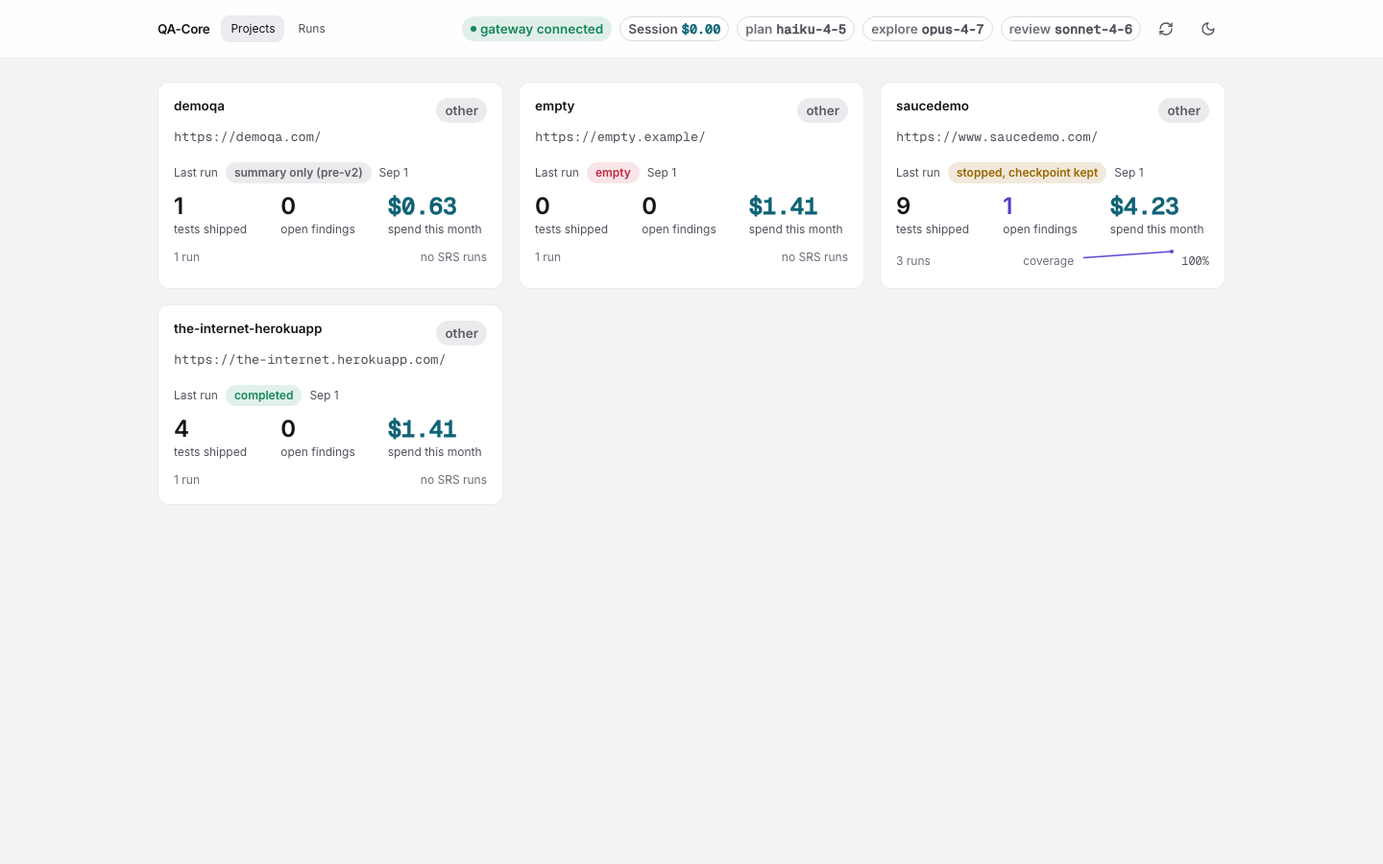
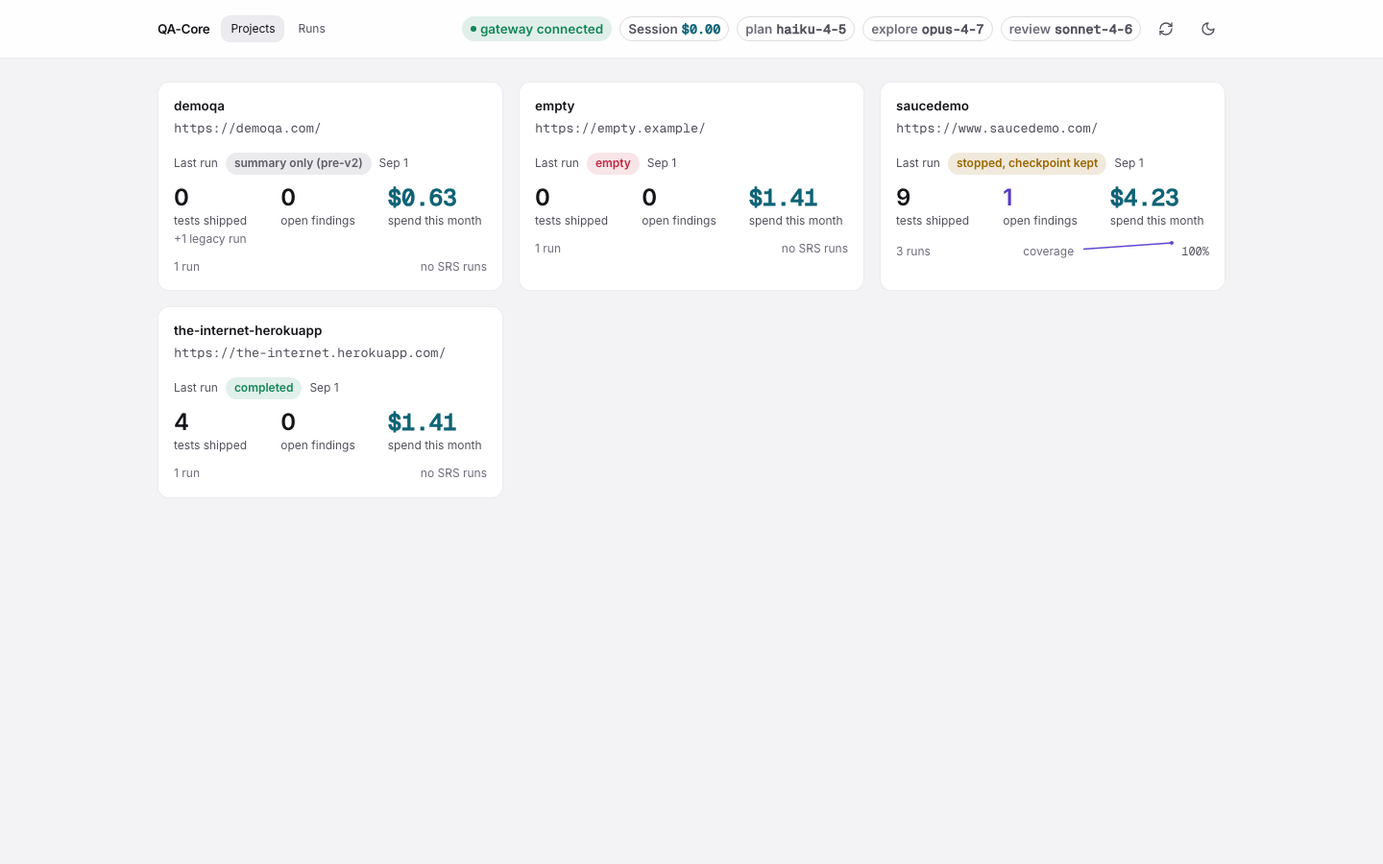
fix(index): legacy rows count explored not shipped; hide unset environment badge
A pre-v2 gateway record's scenario count is what the run EXPLORED:
memory.saveRun wrote it before replay and stability dropped anything, so it
was never a shipped count. Legacy runs rows now keep that value in
`generated` and leave `shipped` NULL (schema migration 3: runs.shipped
nullable, derived tables recreated). The Runs table shows "N explored" for
a legacy row and the run page labels it scenarios explored. Project cards
compute "tests shipped" from reported runs only and show a muted
"+N legacy runs" line; /api/projects and /api/projects/:id expose `shipped`
and `legacy_runs` separately.

The environment badge on a project card is hidden when the environment is
unset or "other" (every auto-created project today), instead of showing a
meaningless label.

Smokes: smoke-index 33, smoke-api 39 (+2), smoke-dashboard 59 (+4),
smoke-acceptance 6 (the --real report now separates shipped from explored).
Suite: 63 scripts green.

diff --git a/src/server/api.ts b/src/server/api.ts
@@ -125,8 +125,14 @@ function monthStart(now = new Date()): string {
 
 export interface ProjectCard {
   id: string; name: string; base_url: string | null; environment: string; srs_path: string | null;
-  runs: number; shipped: number; open_findings: number; spend_month: number; spend_total: number;
-  last_run: { id: string; status: string; started_at: string | null; shipped: number; cost_total: number } | null;
+  /** All runs, reported and legacy. */
+  runs: number;
+  /** Tests shipped, summed over runs that have a report. Legacy rows never contribute. */
+  shipped: number;
+  /** Pre-v2 records (summary only): counted apart, never added to shipped. */
+  legacy_runs: number;
+  open_findings: number; spend_month: number; spend_total: number;
+  last_run: { id: string; status: string; started_at: string | null; shipped: number | null; generated: number; cost_total: number } | null;
   /** Rule coverage percent per run (oldest first), for the sparkline; empty without SRS runs. */
   coverage_series: Array<{ run_id: string; started_at: string | null; percent: number }>;
 }
@@ -138,18 +144,21 @@ export function listProjects(db: Database.Database): ProjectCard[] {
 
 function projectCard(db: Database.Database, p: Record<string, unknown>): ProjectCard {
   const id = String(p.id);
-  const agg = db.prepare(`SELECT COUNT(*) AS runs, COALESCE(SUM(shipped), 0) AS shipped, COALESCE(SUM(cost_total), 0) AS spend_total,
+  const agg = db.prepare(`SELECT COUNT(*) AS runs,
+                          COALESCE(SUM(CASE WHEN report_path IS NOT NULL THEN shipped ELSE 0 END), 0) AS shipped,
+                          SUM(CASE WHEN status = 'legacy' THEN 1 ELSE 0 END) AS legacy_runs,
+                          COALESCE(SUM(cost_total), 0) AS spend_total,
                           COALESCE(SUM(CASE WHEN started_at >= ? THEN cost_total ELSE 0 END), 0) AS spend_month
-                          FROM runs WHERE project_id = ?`).get(monthStart(), id) as { runs: number; shipped: number; spend_total: number; spend_month: number };
+                          FROM runs WHERE project_id = ?`).get(monthStart(), id) as { runs: number; shipped: number; legacy_runs: number; spend_total: number; spend_month: number };
   const open = db.prepare("SELECT COUNT(*) AS n FROM findings WHERE project_id = ? AND status IN ('new', 'confirmed')").get(id) as { n: number };
-  const last = db.prepare('SELECT id, status, started_at, shipped, cost_total FROM runs WHERE project_id = ? ORDER BY started_at DESC, id DESC LIMIT 1').get(id) as ProjectCard['last_run'] | undefined;
+  const last = db.prepare('SELECT id, status, started_at, shipped, generated, cost_total FROM runs WHERE project_id = ? ORDER BY started_at DESC, id DESC LIMIT 1').get(id) as ProjectCard['last_run'] | undefined;
   const coverage = db.prepare(`SELECT r.id AS run_id, r.started_at,
                                  SUM(CASE WHEN c.status = 'covered' THEN 1 ELSE 0 END) AS covered, COUNT(*) AS total
                                FROM rule_coverage c JOIN runs r ON r.id = c.run_id WHERE r.project_id = ?
                                GROUP BY r.id ORDER BY r.started_at ASC, r.id ASC`).all(id) as Array<{ run_id: string; started_at: string | null; covered: number; total: number }>;
   return {
     id, name: String(p.name), base_url: (p.base_url as string | null) ?? null, environment: String(p.environment), srs_path: (p.srs_path as string | null) ?? null,
-    runs: agg.runs, shipped: agg.shipped, open_findings: open.n, spend_month: agg.spend_month, spend_total: agg.spend_total,
+    runs: agg.runs, shipped: agg.shipped, legacy_runs: agg.legacy_runs ?? 0, open_findings: open.n, spend_month: agg.spend_month, spend_total: agg.spend_total,
     last_run: last ?? null,
     coverage_series: coverage.map((c) => ({ run_id: c.run_id, started_at: c.started_at, percent: c.total ? Math.round((c.covered / c.total) * 100) : 0 })),
   };
@@ -164,7 +173,7 @@ export function projectDetail(db: Database.Database, id: string): Record<string,
   const openFindings = db.prepare("SELECT * FROM findings WHERE project_id = ? AND status IN ('new', 'confirmed') ORDER BY last_seen_run_id DESC").all(id);
   return {
     project: p,
-    summary: { runs: card.runs, shipped: card.shipped, open_findings: card.open_findings, spend_total: card.spend_total, spend_month: card.spend_month, last_run: card.last_run },
+    summary: { runs: card.runs, shipped: card.shipped, legacy_runs: card.legacy_runs, open_findings: card.open_findings, spend_total: card.spend_total, spend_month: card.spend_month, last_run: card.last_run },
     trend: trend.map((t) => ({ ...t, coverage_percent: coverageByRun.get(String(t.run_id)) ?? null })),
     open_findings: openFindings,
   };

diff --git a/scripts/smoke-dashboard.ts b/scripts/smoke-dashboard.ts
@@ -118,6 +118,8 @@ for (const theme of ['dark', 'light'] as const) {
     shipped: el.querySelector('[data-testid="shipped"]')?.textContent,
     findings: el.querySelector('[data-testid="open-findings"]')?.textContent,
     spend: el.querySelector('[data-testid="spend-month"]')?.textContent,
+    legacySub: el.querySelector('[data-testid="shipped-sub"]')?.textContent ?? null,
+    envBadge: el.querySelector('[data-testid="env-badge"]')?.textContent ?? null,
     status: el.querySelector('[data-status]')?.getAttribute('data-status'),
     text: el.textContent ?? '',
   })));
@@ -149,13 +151,16 @@ for (const theme of ['dark', 'light'] as const) {
   check(`${theme}: runs table lists every run newest first`, rows.length === apiRuns.length && rows[0]?.id === apiRuns[0]?.id, JSON.stringify(rows.map((r) => r.id)));
   for (const r of apiRuns) {
     const row = rows.find((x) => x.id === r.id)!;
-    const expectSp = r.status === 'legacy' ? String(r.shipped) : `${r.shipped}/${r.planned}`;
+    const expectSp = r.status === 'legacy' ? `${r.generated} explored` : `${r.shipped}/${r.planned}`;
     check(`${theme}: row ${String(r.id).slice(0, 16)} shows shipped/planned, cost, status from the index`, !!row && row.sp === expectSp && row.cost === `$${Number(r.cost_total).toFixed(4)}` && row.status === r.status, JSON.stringify(row));
   }
   check(`${theme}: source and duration columns render (mcp source, 4m 14s duration)`, rows.some((r) => /mcp/.test(r.text)) && rows.filter((r) => r.status !== 'legacy').every((r) => /4m 14s/.test(r.text)), JSON.stringify(rows.map((r) => r.text.slice(0, 80))));
   const legacyRow = rows.find((r) => r.status === 'legacy')!;
-  check(`${theme}: a pre-v2 record renders the "summary only (pre-v2)" badge, shipped without a planned count, and its duration`, !!legacyRow && /summary only \(pre-v2\)/.test(legacyRow.text) && legacyRow.sp === '1' && /4m 15s/.test(legacyRow.text), JSON.stringify(legacyRow));
-  check(`${theme}: the demoqa project card shows the legacy run as its last run`, cards.find((c) => c.id === 'demoqa-com')?.status === 'legacy' && cards.find((c) => c.id === 'demoqa-com')?.shipped === '1');
+  check(`${theme}: a pre-v2 record renders the "summary only (pre-v2)" badge, "N explored" instead of shipped/planned, and its duration`, !!legacyRow && /summary only \(pre-v2\)/.test(legacyRow.text) && legacyRow.sp === '1 explored' && /4m 15s/.test(legacyRow.text), JSON.stringify(legacyRow));
+  const demoqa = cards.find((c) => c.id === 'demoqa-com');
+  check(`${theme}: the demoqa card counts 0 tests shipped (legacy scenarios were explored, not shipped) with a muted "+1 legacy run" line`, demoqa?.status === 'legacy' && demoqa?.shipped === '0' && demoqa?.legacySub === '+1 legacy run', JSON.stringify(demoqa));
+  check(`${theme}: cards with real runs carry no legacy line`, cards.filter((c) => c.id !== 'demoqa-com').every((c) => c.legacySub === null), JSON.stringify(cards.map((c) => [c.id, c.legacySub])));
+  check(`${theme}: the environment badge is hidden when the environment is unset or "other"`, cards.every((c) => !c.envBadge), JSON.stringify(cards.map((c) => c.envBadge)));
   await page.selectOption('[data-testid="filter-project"]', 'saucedemo-com');
   await page.waitForFunction(() => document.querySelectorAll('[data-testid="run-row"]').length === 3);
   check(`${theme}: project filter narrows to that project's runs and updates the URL`, (await page.$$('[data-testid="run-row"]')).length === 3 && /project_id=saucedemo-com/.test(page.url()));
@@ -172,7 +177,7 @@ for (const theme of ['dark', 'light'] as const) {
   await page.waitForURL(`**/runs/${legacyRow.id}`);
   await page.waitForFunction(() => /Summary only/.test(document.querySelector('main')?.textContent ?? ''), null, { timeout: 10_000 }).catch(() => null);
   const legacyDetail = (await page.textContent('main')) ?? '';
-  check(`${theme}: the legacy run page explains "summary only" and offers no report or zip link`, /Summary only \(pre-v2\)/.test(legacyDetail) && !/Download framework zip/.test(legacyDetail) && !/api\/runs/.test(legacyDetail), legacyDetail.slice(0, 160));
+  check(`${theme}: the legacy run page explains "summary only", labels the count as explored, and offers no report or zip link`, /Summary only \(pre-v2\)/.test(legacyDetail) && /scenarios explored/.test(legacyDetail) && !/Download framework zip/.test(legacyDetail) && !/api\/runs/.test(legacyDetail), legacyDetail.slice(0, 160));
   await page.goBack();
   await page.waitForSelector('[data-testid="run-row"]');
   await page.click(`[data-run-id="${s1}"] a`);

diff --git a/scripts/smoke-index.ts b/scripts/smoke-index.ts
@@ -114,7 +114,7 @@ fs.writeFileSync(path.join(root, '.qa-core', 'sites', 'unknown.json'), JSON.stri
 /* ─── first index ─── */
 
 const db = openDatabase(dbPath);
-check('A. schema migrated to the current version (2: legacy run records)', schemaVersion(db) === 2);
+check('A. schema migrated to the current version (3: legacy rows count explored, not shipped)', schemaVersion(db) === 3);
 const r1 = indexOutput(db, root);
 check('B. 6 reported runs + 3 pre-v2 records indexed (1 record covered by a report, skipped)', r1.runs === 9 && r1.legacy === 1 && r1.legacyRecords === 3 && r1.legacyCovered === 1, JSON.stringify(r1));
 check('C. 5 projects: saucedemo, shop, legacy, demo.playwright.dev (records only), Unassigned', r1.projects === 5, String(r1.projects));
@@ -168,13 +168,13 @@ check('N. rule coverage rows carry status, text and feature from the requirement
 
 const julyRec = { at: legacyAt, url: 'https://www.saucedemo.com/', scenarios: 5, cost: 0.7647535, model: 'claude-opus-4-7', durationSec: 101 };
 const july = legacyRows.find((r) => r.id === legacyRunId('www.saucedemo.com', julyRec))!;
-check('T1. the July record is a legacy row with the numbers it carried and nothing invented', !!july && july.status === 'legacy' && july.shipped === 5 && july.generated === 5 && july.planned === 0 && Math.abs(Number(july.cost_total) - 0.7647535) < 1e-9 && Number(july.cost_explorer) === Number(july.cost_total) && july.report_path === null && july.zip_path === null && july.flake_rate === null, JSON.stringify(july));
+check('T1. the July record is a legacy row: its scenario count is EXPLORED (generated), shipped is NULL, nothing invented', !!july && july.status === 'legacy' && july.shipped === null && july.generated === 5 && july.planned === 0 && Math.abs(Number(july.cost_total) - 0.7647535) < 1e-9 && Number(july.cost_explorer) === Number(july.cost_total) && july.report_path === null && july.zip_path === null && july.flake_rate === null, JSON.stringify(july));
 check('T2. legacy timing: ended_at is the record time, started_at is durationSec earlier', july.ended_at === legacyAt && july.started_at === '2026-07-03T09:13:19.000Z', JSON.stringify([july.started_at, july.ended_at]));
 check('T3. legacy flags keep the model and duration; source is cli', JSON.parse(String(july.flags_json)).model === 'claude-opus-4-7' && JSON.parse(String(july.flags_json)).durationSec === 101 && july.source === 'cli');
 check('T4. a record covered by a real report (same host, finished within the window) is NOT imported and the report row is untouched', !legacyRows.some((r) => r.ended_at === '2026-09-12T10:00:40.000Z') && runs.find((r) => r.id === sauce2)?.shipped === 4 && runs.find((r) => r.id === sauce2)?.status === 'completed');
-check('T5. a host with records but no reports gets its own project', legacyRows.find((r) => r.project_id === 'demo-playwright-dev')?.shipped === 5);
+check('T5. a host with records but no reports gets its own project', legacyRows.find((r) => r.project_id === 'demo-playwright-dev')?.generated === 5 && legacyRows.find((r) => r.project_id === 'demo-playwright-dev')?.shipped === null);
 check('T6. the unknown host record lands in Unassigned with a null url', legacyRows.find((r) => r.project_id === UNASSIGNED_PROJECT_ID)?.url === null);
-check('T7. runRowFromLegacyRecord is a pure mapping with a deterministic id', runRowFromLegacyRecord('h', julyRec, 'p').id === runRowFromLegacyRecord('h', julyRec, 'p').id && runRowFromLegacyRecord('h', julyRec, 'p').id.startsWith('legacy-20260703T091500Z-'));
+check('T7. runRowFromLegacyRecord is a pure mapping with a deterministic id and a NULL shipped', runRowFromLegacyRecord('h', julyRec, 'p').id === runRowFromLegacyRecord('h', julyRec, 'p').id && runRowFromLegacyRecord('h', julyRec, 'p').id.startsWith('legacy-20260703T091500Z-') && runRowFromLegacyRecord('h', julyRec, 'p').shipped === null && runRowFromLegacyRecord('h', julyRec, 'p').generated === 5);
 // A legacy id can never overwrite a reported row: force the collision and re-import.
 // (The swap rewrites primary keys that derived rows reference; those rows are
 // rebuilt right after, so the constraint is paused for the swap only.)

diff --git a/scripts/smoke-api.ts b/scripts/smoke-api.ts
@@ -97,19 +97,23 @@ const projects = (await get('/api/projects', auth)).json().projects as Array<Rec
 const sauce = projects.find((p) => p.id === 'saucedemo-com')!;
 const shop = projects.find((p) => p.id === 'shop-example')!;
 check('E. /api/projects lists both host projects plus the records-only host', projects.length === 3 && !!sauce && !!shop && projects.some((p) => p.id === 'old-example'), JSON.stringify(projects.map((p) => p.id)));
-check('F. project card sums runs, lifetime shipped and spend from the runs rows', sauce.runs === 2 && sauce.shipped === 5 && Math.abs(Number(sauce.spend_total) - 2.3) < 1e-9, JSON.stringify(sauce));
+check('F. project card sums runs, lifetime shipped and spend from the runs rows', sauce.runs === 2 && sauce.shipped === 5 && sauce.legacy_runs === 0 && Math.abs(Number(sauce.spend_total) - 2.3) < 1e-9, JSON.stringify(sauce));
+const old = projects.find((p) => p.id === 'old-example')!;
+check('F2. a legacy-only project shows shipped 0 and legacy_runs 1: explored scenarios never count as shipped', old.shipped === 0 && old.legacy_runs === 1 && old.runs === 1 && (old.last_run as Record<string, unknown>).shipped === null && (old.last_run as Record<string, unknown>).generated === 3, JSON.stringify(old));
 check('G. spend this month counts only runs started this month', Math.abs(Number(sauce.spend_month) - 1.15) < 1e-9 && Math.abs(Number(shop.spend_month) - 1.15) < 1e-9, JSON.stringify([sauce.spend_month, shop.spend_month]));
 check('H. last run is the newest by start time with its status', (sauce.last_run as Record<string, unknown>).id === a2 && (sauce.last_run as Record<string, unknown>).status === 'stopped');
 check('I. open findings and coverage series are zero/empty without findings or SRS runs', sauce.open_findings === 0 && Array.isArray(sauce.coverage_series) && (sauce.coverage_series as unknown[]).length === 0);
 const detail = (await get('/api/projects/saucedemo-com', auth)).json();
 check('J. /api/projects/:id returns summary, trend (oldest first) and open findings', (detail.summary as Record<string, unknown>).runs === 2 && (detail.trend as Array<Record<string, unknown>>).length === 2 && (detail.trend as Array<Record<string, unknown>>)[0]?.run_id === a1 && Array.isArray(detail.open_findings));
+const oldDetail = (await get('/api/projects/old-example', auth)).json();
+check('J2. the summary exposes shipped and legacy_runs separately', (oldDetail.summary as Record<string, unknown>).shipped === 0 && (oldDetail.summary as Record<string, unknown>).legacy_runs === 1 && (detail.summary as Record<string, unknown>).legacy_runs === 0);
 check('K. unknown project is 404', (await get('/api/projects/nope', auth)).status === 404);
 
 /* ─── runs ─── */
 const runsAll = (await get('/api/runs', auth)).json().runs as Array<Record<string, unknown>>;
 check('L. /api/runs lists every run newest first with the project name joined', runsAll.length === 4 && runsAll[0]?.project_name !== undefined && String(runsAll[0]?.started_at) >= String(runsAll[2]?.started_at), JSON.stringify(runsAll.map((r) => r.id)));
 const legacyRow = runsAll.find((r) => r.status === 'legacy')!;
-check('L2. a pre-v2 record is listed as status legacy with null report and zip paths', !!legacyRow && legacyRow.report_path === null && legacyRow.zip_path === null && legacyRow.shipped === 3);
+check('L2. a pre-v2 record is listed as status legacy with null report and zip paths, explored in generated, shipped NULL', !!legacyRow && legacyRow.report_path === null && legacyRow.zip_path === null && legacyRow.shipped === null && legacyRow.generated === 3);
 check('L3. /report and /zip are 404 for a legacy row, naming the reason', (await get(`/api/runs/${legacyRow.id}/report`, auth)).status === 404 && /pre-v2/.test((await get(`/api/runs/${legacyRow.id}/report`, auth)).text) && (await get(`/api/runs/${legacyRow.id}/zip`, auth)).status === 404);
 check('L4. status=legacy filter', ((await get('/api/runs?status=legacy', auth)).json().runs as unknown[]).length === 1);
 const runsSauce = (await get('/api/runs?project_id=saucedemo-com', auth)).json().runs as Array<Record<string, unknown>>;

diff --git a/scripts/smoke-acceptance.ts b/scripts/smoke-acceptance.ts
@@ -97,16 +97,16 @@ check('rows after delete + reindex are identical to the first index', first === 
 // 4. Every row equals its report and sits under the right project.
 const rows = db.prepare('SELECT r.*, p.base_url FROM runs r JOIN projects p ON p.id = r.project_id ORDER BY r.started_at').all() as Array<Record<string, unknown>>;
 let mismatches = 0;
-const perProject = new Map<string, { runs: number; shipped: number; cost: number; name: string }>();
+const perProject = new Map<string, { runs: number; shipped: number; explored: number; legacy: number; cost: number; name: string }>();
 let legacyCount = 0;
 for (const row of rows) {
   if (row.status === 'legacy') {
     // A pre-v2 record: no report to compare against; it must carry no invented numbers and no file paths.
     legacyCount++;
-    if (row.report_path !== null || row.zip_path !== null || Number(row.planned) !== 0 || Number(row.shipped) !== Number(row.generated)) { mismatches++; console.log(`  legacy row ${String(row.id)} carries invented data`); }
+    if (row.report_path !== null || row.zip_path !== null || Number(row.planned) !== 0 || row.shipped !== null) { mismatches++; console.log(`  legacy row ${String(row.id)} carries invented data (shipped must be NULL, the record only knew explored)`); }
     const pid = String(row.project_id);
-    const agg = perProject.get(pid) ?? { runs: 0, shipped: 0, cost: 0, name: '' };
-    agg.runs++; agg.shipped += Number(row.shipped); agg.cost += Number(row.cost_total);
+    const agg = perProject.get(pid) ?? { runs: 0, shipped: 0, explored: 0, legacy: 0, cost: 0, name: '' };
+    agg.runs++; agg.legacy++; agg.explored += Number(row.generated); agg.cost += Number(row.cost_total);
     perProject.set(pid, agg);
     continue;
   }
@@ -124,7 +124,7 @@ for (const row of rows) {
   const rightProject = host ? hostOf(String(row.base_url)) === host : row.project_id === UNASSIGNED_PROJECT_ID;
   if (!rightProject) { mismatches++; console.log(`  wrong project for ${String(row.id)}: ${String(row.project_id)} (host ${host})`); }
   const pid = String(row.project_id);
-  const agg = perProject.get(pid) ?? { runs: 0, shipped: 0, cost: 0, name: '' };
+  const agg = perProject.get(pid) ?? { runs: 0, shipped: 0, explored: 0, legacy: 0, cost: 0, name: '' };
   agg.runs++; agg.shipped += Number(row.shipped); agg.cost += Number(row.cost_total);
   perProject.set(pid, agg);
 }
@@ -136,7 +136,7 @@ if (!real) {
 }
 const names = db.prepare('SELECT id, name FROM projects').all() as Array<{ id: string; name: string }>;
 console.log(`\nIndex of ${root === process.cwd() ? 'the real output/' : 'the fixture'}: ${r2.runs} run(s) (${r2.runs - r2.legacyRecords} with reports, ${r2.legacyRecords} pre-v2 records imported, ${r2.legacyCovered} records covered by a report), ${r2.projects} project(s), ${r2.legacy} legacy folder(s) in place, ${r2.findings} finding(s)`);
-for (const [pid, agg] of [...perProject.entries()].sort()) console.log(`  ${names.find((n) => n.id === pid)?.name ?? pid} (${pid}): ${agg.runs} run(s), ${agg.shipped} shipped, $${agg.cost.toFixed(4)}`);
+for (const [pid, agg] of [...perProject.entries()].sort()) console.log(`  ${names.find((n) => n.id === pid)?.name ?? pid} (${pid}): ${agg.runs} run(s), ${agg.shipped} shipped${agg.legacy ? ` (+${agg.legacy} legacy run(s), ${agg.explored} explored)` : ''}, $${agg.cost.toFixed(4)}`);
 const unassigned = perProject.get(UNASSIGNED_PROJECT_ID);
 console.log(`  unassigned: ${unassigned ? unassigned.runs : 0}`);
 db.close();

diff --git a/src/server/db/indexer.ts b/src/server/db/indexer.ts
@@ -42,7 +42,8 @@ export interface RunRow {
   stable: number;
   flaky: number;
   broken: number;
-  shipped: number;
+  /** Scenarios in the emitted framework. NULL for a legacy record, which only knew how many were explored. */
+  shipped: number | null;
   cost_total: number;
   cost_planner: number;
   cost_explorer: number;
@@ -254,9 +255,12 @@ export function indexRunDir(db: Database.Database, root: string, entry: RunDirEn
  * .qa-core/sites/<host>.json holds `recentRuns` [{ at, url, scenarios, cost,
  * model, durationSec }] (the last 5 per host). Runs from before the per-run
  * layout survive only there, so they are imported as `runs` rows with status
- * 'legacy', report_path null, and the numbers the record carries: shipped =
- * generated = scenarios, cost_total = cost, started_at = at - durationSec,
- * ended_at = at. Nothing else is invented (planned and the funnel stay 0).
+ * 'legacy', report_path null, and the numbers the record carries. The
+ * record's `scenarios` is how many the run EXPLORED (memory.saveRun wrote it
+ * before replay and stability dropped anything), so it is stored as
+ * `generated` and `shipped` stays NULL: a legacy row never claims a shipped
+ * count. cost_total = cost, started_at = at - durationSec, ended_at = at.
+ * Nothing else is invented (planned and the funnel stay 0).
  *
  * A record is skipped when a real report covers the same run: same host and
  * the report's finish time within LEGACY_MATCH_MS of the record's `at` (the
@@ -293,7 +297,7 @@ export function runRowFromLegacyRecord(host: string, rec: LegacyRecord, projectI
   const at = Date.parse(rec.at);
   const ended = Number.isNaN(at) ? null : new Date(at).toISOString();
   const started = Number.isNaN(at) ? null : new Date(at - Math.max(0, Number(rec.durationSec) || 0) * 1000).toISOString();
-  const shipped = Number(rec.scenarios) || 0;
+  const explored = Number(rec.scenarios) || 0;
   const cost = Number(rec.cost) || 0;
   return {
     id: legacyRunId(host, rec),
@@ -304,8 +308,8 @@ export function runRowFromLegacyRecord(host: string, rec: LegacyRecord, projectI
     source: 'cli',
     url: rec.url && rec.url !== '--' ? rec.url : null,
     flags_json: JSON.stringify({ model: rec.model, durationSec: rec.durationSec, legacyHost: host }),
-    planned: 0, generated: shipped, dropped: 0, incomplete: 0, findings: 0, skipped: 0,
-    stable: 0, flaky: 0, broken: 0, shipped,
+    planned: 0, generated: explored, dropped: 0, incomplete: 0, findings: 0, skipped: 0,
+    stable: 0, flaky: 0, broken: 0, shipped: null,
     cost_total: cost, cost_planner: 0, cost_explorer: cost, cost_critic: 0, cost_repair: 0,
     flake_rate: null,
     report_path: null, zip_path: null, checkpoint_path: null, stopped_reason: null,

diff --git a/dashboard/src/pages/Projects.tsx b/dashboard/src/pages/Projects.tsx
@@ -39,7 +39,7 @@ export function ProjectsPage({ refreshKey }: { refreshKey: number }) {
             <CardHeader>
               <div className="flex items-start justify-between gap-2">
                 <CardTitle className="truncate" title={p.name}>{p.name}</CardTitle>
-                <Badge variant={ENV_VARIANT[p.environment] ?? 'neutral'}>{p.environment}</Badge>
+                {p.environment && p.environment !== 'other' ? <Badge variant={ENV_VARIANT[p.environment] ?? 'neutral'} data-testid="env-badge">{p.environment}</Badge> : null}
               </div>
               <CardDescription className="mono truncate" title={p.base_url ?? ''}>{p.base_url ?? 'no base URL'}</CardDescription>
             </CardHeader>
@@ -48,7 +48,7 @@ export function ProjectsPage({ refreshKey }: { refreshKey: number }) {
                 {p.last_run ? (<><span>Last run</span><StatusBadge status={p.last_run.status} /><span>{fmtDate(p.last_run.started_at)}</span></>) : <span>No runs yet</span>}
               </div>
               <dl className="grid grid-cols-3 gap-2">
-                <Stat label="tests shipped" value={String(p.shipped)} testid="shipped" />
+                <Stat label="tests shipped" value={String(p.shipped)} testid="shipped" sub={p.legacy_runs ? `+${p.legacy_runs} legacy run${p.legacy_runs === 1 ? '' : 's'}` : undefined} />
                 <Stat label="open findings" value={String(p.open_findings)} tone={p.open_findings ? 'finding' : undefined} testid="open-findings" />
                 <Stat label="spend this month" value={money(p.spend_month)} tone="cost" mono testid="spend-month" />
               </dl>
@@ -66,11 +66,12 @@ export function ProjectsPage({ refreshKey }: { refreshKey: number }) {
   );
 }
 
-function Stat({ label, value, tone, mono, testid }: { label: string; value: string; tone?: 'finding' | 'cost'; mono?: boolean; testid: string }) {
+function Stat({ label, value, tone, mono, testid, sub }: { label: string; value: string; tone?: 'finding' | 'cost'; mono?: boolean; testid: string; sub?: string }) {
   return (
     <div>
       <dd className={`text-l font-semibold leading-none ${tone === 'finding' ? 'text-finding' : tone === 'cost' ? 'text-cost' : ''} ${mono ? 'mono' : ''}`} data-testid={testid}>{value}</dd>
       <dt className="mt-1 text-s text-fg-2">{label}</dt>
+      {sub ? <div className="mt-0.5 text-s text-fg-3" data-testid={`${testid}-sub`} title="Pre-v2 records only recorded scenarios explored, never a shipped count">{sub}</div> : null}
     </div>
   );
 }

diff --git a/dashboard/src/pages/Runs.tsx b/dashboard/src/pages/Runs.tsx
@@ -72,7 +72,7 @@ export function RunsPage({ refreshKey }: { refreshKey: number }) {
               <TableRow key={r.id} className="cursor-pointer" data-testid="run-row" data-run-id={r.id}>
                 <TableCell><Link to={`/runs/${encodeURIComponent(r.id)}`} className="block"><StatusBadge status={r.status} /></Link></TableCell>
                 <TableCell><Link to={`/runs/${encodeURIComponent(r.id)}`} className="block"><div className="font-semibold">{r.project_name ?? r.project_id}</div><div className="mono truncate text-s text-fg-3" title={r.url ?? ''}>{r.url}</div></Link></TableCell>
-                <TableCell className="text-right"><Link to={`/runs/${encodeURIComponent(r.id)}`} className="block"><span className="mono" data-testid="shipped-planned">{r.status === 'legacy' ? `${r.shipped}` : `${r.shipped}/${r.planned}`}</span></Link></TableCell>
+                <TableCell className="text-right"><Link to={`/runs/${encodeURIComponent(r.id)}`} className="block"><span className="mono" data-testid="shipped-planned" title={r.status === 'legacy' ? 'Pre-v2 record: scenarios explored, no shipped count' : 'shipped / planned'}>{r.status === 'legacy' ? `${r.generated} explored` : `${r.shipped ?? 0}/${r.planned}`}</span></Link></TableCell>
                 <TableCell className="text-right"><Link to={`/runs/${encodeURIComponent(r.id)}`} className="block money text-cost" data-testid="cost">{money(r.cost_total, 4)}</Link></TableCell>
                 <TableCell className="text-right"><Link to={`/runs/${encodeURIComponent(r.id)}`} className={`block mono ${r.flake_rate ? 'text-rework' : 'text-fg-2'}`}>{pct(r.flake_rate)}</Link></TableCell>
                 <TableCell className="text-right"><Link to={`/runs/${encodeURIComponent(r.id)}`} className="block mono text-fg-2">{duration(r.started_at, r.ended_at)}</Link></TableCell>

diff --git a/dashboard/src/pages/RunPlaceholder.tsx b/dashboard/src/pages/RunPlaceholder.tsx
@@ -22,13 +22,13 @@ export function RunPlaceholderPage() {
         <span className="mono text-s text-fg-3">{run.id}</span>
       </div>
       <dl className="grid gap-3 sm:grid-cols-4">
-        {[[run.status === 'legacy' ? 'shipped' : 'shipped / planned', run.status === 'legacy' ? String(run.shipped) : `${run.shipped}/${run.planned}`], ['total cost', money(run.cost_total, 4)], ['started', fmtDate(run.started_at)], ['source', run.source]].map(([k, v]) => (
+        {[[run.status === 'legacy' ? 'scenarios explored' : 'shipped / planned', run.status === 'legacy' ? String(run.generated) : `${run.shipped ?? 0}/${run.planned}`], ['total cost', money(run.cost_total, 4)], ['started', fmtDate(run.started_at)], ['source', run.source]].map(([k, v]) => (
           <div key={k} className="rounded-lg border border-line bg-bg-1 p-3"><dd className="text-l font-semibold">{v}</dd><dt className="mt-1 text-s text-fg-2">{k}</dt></div>
         ))}
       </dl>
       {run.status === 'legacy' ? (
         <EmptyState title="Summary only (pre-v2)">
-          This run predates the per-run output layout. Only the numbers the gateway recorded at the time exist: scenarios shipped, cost, duration and model. There is no report or framework zip to open.
+          This run predates the per-run output layout. Only the numbers the gateway recorded at the time exist: scenarios explored (not shipped), cost, duration and model. There is no report or framework zip to open.
         </EmptyState>
       ) : (
         <EmptyState title="Run detail arrives in PR B">

diff --git a/dashboard/src/lib/api.ts b/dashboard/src/lib/api.ts
@@ -4,8 +4,8 @@
  */
 export interface ProjectCard {
   id: string; name: string; base_url: string | null; environment: string; srs_path: string | null;
-  runs: number; shipped: number; open_findings: number; spend_month: number; spend_total: number;
-  last_run: { id: string; status: string; started_at: string | null; shipped: number; cost_total: number } | null;
+  runs: number; shipped: number; legacy_runs: number; open_findings: number; spend_month: number; spend_total: number;
+  last_run: { id: string; status: string; started_at: string | null; shipped: number | null; generated: number; cost_total: number } | null;
   coverage_series: Array<{ run_id: string; started_at: string | null; percent: number }>;
 }
 
@@ -13,7 +13,7 @@ export interface RunRow {
   id: string; project_id: string; project_name?: string; started_at: string | null; ended_at: string | null;
   status: 'running' | 'completed' | 'stopped' | 'empty' | 'failed' | 'legacy'; source: string; url: string | null;
   planned: number; generated: number; dropped: number; incomplete: number; findings: number; skipped: number;
-  stable: number; flaky: number; broken: number; shipped: number;
+  stable: number; flaky: number; broken: number; shipped: number | null;
   cost_total: number; cost_planner: number; cost_explorer: number; cost_critic: number; cost_repair: number;
   flake_rate: number | null; report_path: string | null; zip_path: string | null; checkpoint_path: string | null; stopped_reason: string | null;
 }

diff --git a/src/server/db/migrate.ts b/src/server/db/migrate.ts
@@ -41,6 +41,16 @@ export const MIGRATIONS: Migration[] = [
       db.exec(schemaSql());
     },
   },
+  {
+    // runs.shipped became nullable: a legacy record's scenario count is what
+    // the run EXPLORED, so it lives in `generated` and shipped stays NULL.
+    version: 3,
+    name: 'legacy rows count explored, not shipped',
+    up: (db) => {
+      db.exec('DROP TABLE IF EXISTS verdicts; DROP TABLE IF EXISTS rule_coverage; DROP TABLE IF EXISTS findings; DROP TABLE IF EXISTS runs;');
+      db.exec(schemaSql());
+    },
+  },
 ];
 
 /** Open (creating the file and its directory if needed) and migrate. */

diff --git a/CLAUDE.md b/CLAUDE.md
@@ -122,7 +122,7 @@ Output is then transcribed by `pom.ts` (default — full POM framework) or `tran
 
 49. **Per-run output directories never overwrite.** Every run writes to `output/<project-slug>/<run-id>/` (`src/agent/output-layout.ts`: slug = URL host without `www`, run id = compact UTC time + 6-char hash) holding `run-report.json`, the framework zip, `checkpoint.json` when stopped, the SRS artefacts, and `run-meta.json` (the surface's source and flags, never engine data). `<project>/latest` points at the newest COMPLETED run (`finalizeRunDir`: symlink, `latest.json` fallback). `--out <dir>` is the whole run directory and gets no pointer. The CLI, gateway and MCP all resolve the directory through `outDirForRequest`; the legacy layout is moved once by `npm run migrate-output` (idempotent, `--dry-run`), and `listRunDirs` reads both layouts without following the symlink. Do not reintroduce a shared `<brand>-automation-framework/` directory. Locked by `smoke-output-layout`.
 
-50. **Files are truth; the index is rebuildable.** `data/qa-core.sqlite` (gitignored; `src/server/db/`: `schema.sql` = plan section 5, versioned `migrate.ts`, `indexer.ts`) is rebuilt from `output/` on every gateway start and refreshed after every run. Every `runs` column is copied from the run-report (`runRowFromReport`, reconciliation lengths for the funnel counts, `cost.usd + plannerUsd + criticUsd` for the total), never computed differently; a report without a reconciliation falls back to plan and scenario lengths. Runs are assigned to a project by the URL host (a project is created per host; a run with no parseable host goes to `Unassigned`); findings dedupe across runs on (project, normalized scenario, expected) and keep their status and notes across re-indexes. Runs from before the per-run layout survive only in the gateway's record store (`.qa-core/sites/<host>.json` `recentRuns`, written by `memory.ts`); the indexer imports each record as a `runs` row with status `legacy`, `report_path` null, and only the numbers the record carried (shipped, cost, timing, model); a record covered by a real report (same host, finished within `LEGACY_MATCH_MS`) is skipped and a legacy row never overwrites a row that has a report. The dashboard shows these as "summary only (pre-v2)" with no report or zip links. The REST API (`src/server/api.ts`) only reads index rows and files the index recorded, path-validated under the project root, behind the gateway token. Deleting the database and re-indexing must produce identical rows. Locked by `smoke-index`, `smoke-api`, `smoke-acceptance` (also runnable with `--real` against this repo's output/), and `smoke-dashboard`.
+50. **Files are truth; the index is rebuildable.** `data/qa-core.sqlite` (gitignored; `src/server/db/`: `schema.sql` = plan section 5, versioned `migrate.ts`, `indexer.ts`) is rebuilt from `output/` on every gateway start and refreshed after every run. Every `runs` column is copied from the run-report (`runRowFromReport`, reconciliation lengths for the funnel counts, `cost.usd + plannerUsd + criticUsd` for the total), never computed differently; a report without a reconciliation falls back to plan and scenario lengths. Runs are assigned to a project by the URL host (a project is created per host; a run with no parseable host goes to `Unassigned`); findings dedupe across runs on (project, normalized scenario, expected) and keep their status and notes across re-indexes. Runs from before the per-run layout survive only in the gateway's record store (`.qa-core/sites/<host>.json` `recentRuns`, written by `memory.ts`); the indexer imports each record as a `runs` row with status `legacy`, `report_path` null, and only the numbers the record carried: the record's scenario count is what the run EXPLORED (written before replay and stability dropped anything), so it is stored in `generated` and `shipped` is NULL; a legacy row never contributes to a project's "tests shipped" (the API sums `shipped` over reported runs only and exposes `legacy_runs` apart); a record covered by a real report (same host, finished within `LEGACY_MATCH_MS`) is skipped and a legacy row never overwrites a row that has a report. The dashboard shows these as "summary only (pre-v2)" with no report or zip links. The REST API (`src/server/api.ts`) only reads index rows and files the index recorded, path-validated under the project root, behind the gateway token. Deleting the database and re-indexing must produce identical rows. Locked by `smoke-index`, `smoke-api`, `smoke-acceptance` (also runnable with `--real` against this repo's output/), and `smoke-dashboard`.
 
 ---
 
